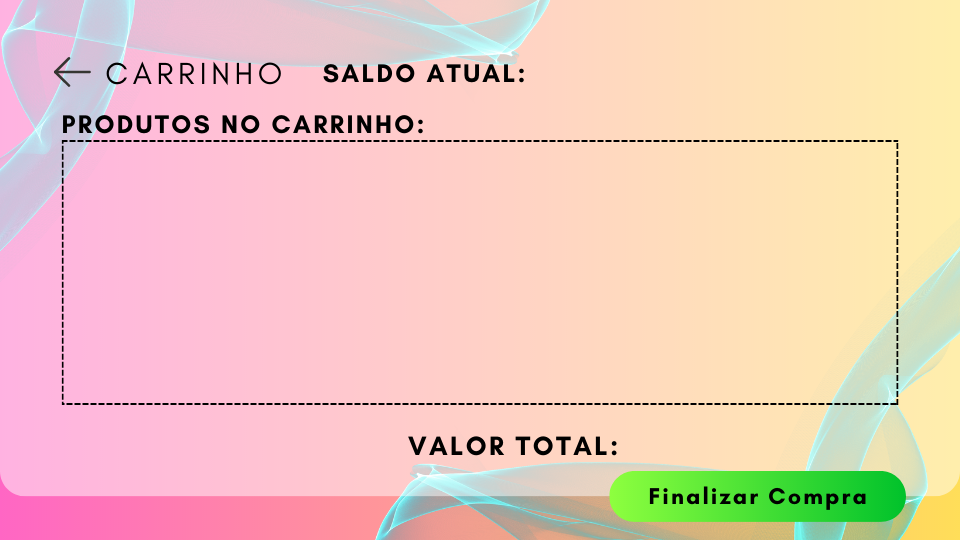
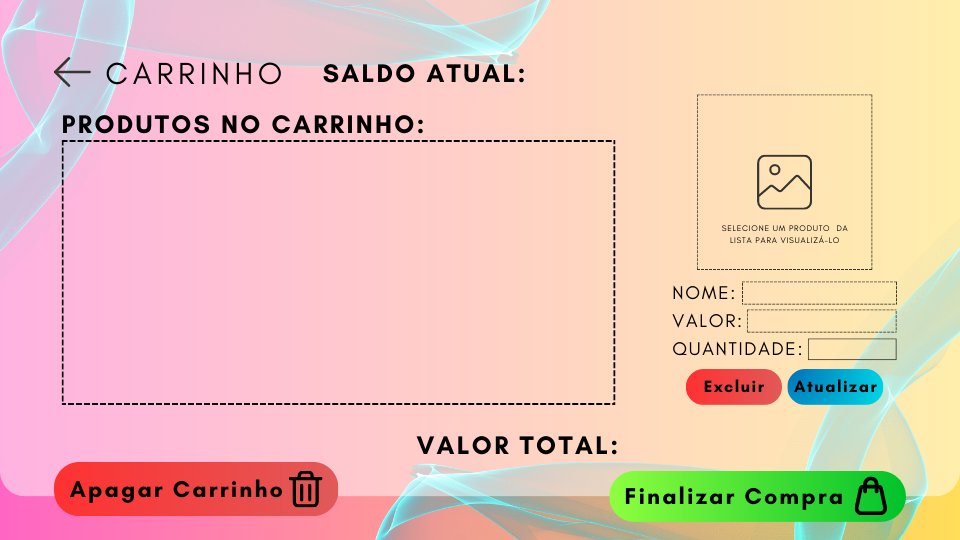
Upgrade Cart Options
Adicionada visualização individual de cada produto no carrinho, exibindo a imagem, nome, valor e quantidade.
Implementada opção de alterar os produtos no carrinho, permitindo a modificação da quantidade de produtos presentes.
Adicionada funcionalidade para remover produtos específicos do carrinho.
Adicionada opção para limpar todos os produtos do carrinho.

diff --git a/TrendStyle/src/views/client/ClientCartScreen.java b/TrendStyle/src/views/client/ClientCartScreen.java
@@ -5,9 +5,18 @@
 package views.client;
 
 import communication.communication;
+import java.awt.Color;
+import java.awt.Image;
 import java.awt.Toolkit;
+import java.awt.event.MouseAdapter;
+import java.awt.event.MouseEvent;
+import java.awt.image.BufferedImage;
+import java.io.IOException;
+import java.net.URL;
 import java.text.DecimalFormat;
 import java.util.ArrayList;
+import javax.imageio.ImageIO;
+import javax.swing.ImageIcon;
 import javax.swing.JOptionPane;
 import javax.swing.JTable;
 import javax.swing.table.DefaultTableModel;
@@ -21,10 +30,11 @@ public class ClientCartScreen extends javax.swing.JFrame {
     int ID = 0;
     double clientBalance = 0;
     double cartValue = 0;
+    int productID = 0;
     
     public boolean updateTable() {
         DefaultTableModel tableModel = new DefaultTableModel(
-                new Object[]{"ID", "Nome", "Valor", "Quantidade", "Total"}, 0
+                new Object[]{"ID", "Nome", "Valor", "Quantidade", "Total", "Imagem"}, 0
         ) {
             // Making cells non-editable
             @Override
@@ -40,6 +50,7 @@ public class ClientCartScreen extends javax.swing.JFrame {
         ArrayList<Double> valores = (ArrayList<Double>) cartItems.get(3);
         ArrayList<Integer> quantidades = (ArrayList<Integer>) cartItems.get(4);
         ArrayList<Double> totais = (ArrayList<Double>) cartItems.get(5);
+        ArrayList<String> imagens = (ArrayList<String>) cartItems.get(6);
 
         // Iterating in reverse order
         for (int i = idProdutos.size() - 1; i >= 0; i--) {
@@ -48,14 +59,58 @@ public class ClientCartScreen extends javax.swing.JFrame {
             double valor = valores.get(i);
             int quantidade = quantidades.get(i);
             double total = totais.get(i);
-            total = Double.valueOf(new DecimalFormat("#.00").format(total));
+            total = Double.parseDouble(new DecimalFormat("#.00").format(total));
+            String imagem = imagens.get(i);
 
-            tableModel.addRow(new Object[]{idProduto, nome, valor, quantidade, total});
+            tableModel.addRow(new Object[]{idProduto, nome, valor, quantidade, total, imagem});
         }
 
         Table = new JTable(tableModel);
+        Table.getColumnModel().getColumn(5).setMinWidth(0);
+        Table.getColumnModel().getColumn(5).setMaxWidth(0);
+        Table.getColumnModel().getColumn(5).setPreferredWidth(0);
         ScrollPane.setViewportView(Table);
+        
+        Table.addMouseListener(new MouseAdapter() {
+            @Override
+            public void mouseClicked(MouseEvent e) {
+                if (e.getClickCount() == 1) {
+                    int linhaSelecionada = Table.getSelectedRow();
+                    productID = (int) Table.getValueAt(linhaSelecionada,0);
+                    String img = Table.getValueAt(linhaSelecionada, 5).toString();
+                    String name = Table.getValueAt(linhaSelecionada, 1).toString();
+                    String value = Table.getValueAt(linhaSelecionada, 2).toString();
+                    String amount = Table.getValueAt(linhaSelecionada, 3).toString();
+                    loadImage(img);
+                    Name.setText(name);
+                    Value.setText(value);
+                    Amount.setText(amount);
+                }
+            }
+        });
+        
         return true;
+    }
+    
+    public void fixDesign() {
+        Amount.setOpaque(false);
+        Amount.setBackground(new Color(0, 0, 0, 0));
+    }
+    
+    private void loadImage(String imageUrl) {
+        try {
+            URL url = new URL(imageUrl);
+            BufferedImage image = ImageIO.read(url);
+
+            int labelWidth = ProductImage.getWidth();
+            int labelHeight = ProductImage.getHeight();
+            Image scaledImage = image.getScaledInstance(labelWidth, labelHeight, Image.SCALE_SMOOTH);
+
+            ImageIcon imageIcon = new ImageIcon(scaledImage);
+            ProductImage.setIcon(imageIcon);
+        } catch (IOException e) {
+            e.printStackTrace();
+        }
     }
     
     public void updatePage() {
@@ -88,6 +143,7 @@ public class ClientCartScreen extends javax.swing.JFrame {
         setIconImage(Toolkit.getDefaultToolkit().getImage(getClass().getResource("../../media/TrendStyleIcon.png")));
         setLocationRelativeTo(null);
         this.ID = _ID;
+        fixDesign();
         updatePage();
     }
 
@@ -106,7 +162,14 @@ public class ClientCartScreen extends javax.swing.JFrame {
         CartValue = new javax.swing.JLabel();
         ScrollPane = new javax.swing.JScrollPane();
         Table = new javax.swing.JTable();
+        ButtonDelete = new javax.swing.JButton();
+        ButtonUpdate = new javax.swing.JButton();
         ButtonConfirm = new javax.swing.JButton();
+        ButtonReset = new javax.swing.JButton();
+        ProductImage = new javax.swing.JLabel();
+        Name = new javax.swing.JLabel();
+        Value = new javax.swing.JLabel();
+        Amount = new javax.swing.JTextField();
         Background = new javax.swing.JLabel();
 
         setDefaultCloseOperation(javax.swing.WindowConstants.EXIT_ON_CLOSE);
@@ -150,7 +213,25 @@ public class ClientCartScreen extends javax.swing.JFrame {
         ));
         ScrollPane.setViewportView(Table);
 
-        Panel.add(ScrollPane, new org.netbeans.lib.awtextra.AbsoluteConstraints(62, 137, 840, 270));
+        Panel.add(ScrollPane, new org.netbeans.lib.awtextra.AbsoluteConstraints(62, 137, 560, 270));
+
+        ButtonDelete.setBorderPainted(false);
+        ButtonDelete.setContentAreaFilled(false);
+        ButtonDelete.addActionListener(new java.awt.event.ActionListener() {
+            public void actionPerformed(java.awt.event.ActionEvent evt) {
+                ButtonDeleteActionPerformed(evt);
+            }
+        });
+        Panel.add(ButtonDelete, new org.netbeans.lib.awtextra.AbsoluteConstraints(685, 370, 98, 35));
+
+        ButtonUpdate.setBorderPainted(false);
+        ButtonUpdate.setContentAreaFilled(false);
+        ButtonUpdate.addActionListener(new java.awt.event.ActionListener() {
+            public void actionPerformed(java.awt.event.ActionEvent evt) {
+                ButtonUpdateActionPerformed(evt);
+            }
+        });
+        Panel.add(ButtonUpdate, new org.netbeans.lib.awtextra.AbsoluteConstraints(787, 370, 95, 35));
 
         ButtonConfirm.setBorderPainted(false);
         ButtonConfirm.setContentAreaFilled(false);
@@ -160,6 +241,26 @@ public class ClientCartScreen extends javax.swing.JFrame {
             }
         });
         Panel.add(ButtonConfirm, new org.netbeans.lib.awtextra.AbsoluteConstraints(610, 470, 300, 50));
+
+        ButtonReset.setBorderPainted(false);
+        ButtonReset.setContentAreaFilled(false);
+        ButtonReset.addActionListener(new java.awt.event.ActionListener() {
+            public void actionPerformed(java.awt.event.ActionEvent evt) {
+                ButtonResetActionPerformed(evt);
+            }
+        });
+        Panel.add(ButtonReset, new org.netbeans.lib.awtextra.AbsoluteConstraints(50, 460, 290, 60));
+        Panel.add(ProductImage, new org.netbeans.lib.awtextra.AbsoluteConstraints(700, 100, 170, 170));
+        Panel.add(Name, new org.netbeans.lib.awtextra.AbsoluteConstraints(744, 283, 150, 21));
+        Panel.add(Value, new org.netbeans.lib.awtextra.AbsoluteConstraints(749, 311, 147, 20));
+
+        Amount.setBorder(null);
+        Amount.addActionListener(new java.awt.event.ActionListener() {
+            public void actionPerformed(java.awt.event.ActionEvent evt) {
+                AmountActionPerformed(evt);
+            }
+        });
+        Panel.add(Amount, new org.netbeans.lib.awtextra.AbsoluteConstraints(809, 339, 87, 20));
 
         Background.setIcon(new javax.swing.ImageIcon(getClass().getResource("/media/clientCart.png"))); // NOI18N
         Panel.add(Background, new org.netbeans.lib.awtextra.AbsoluteConstraints(0, 0, -1, -1));
@@ -219,6 +320,62 @@ public class ClientCartScreen extends javax.swing.JFrame {
         }
     }//GEN-LAST:event_ButtonConfirmActionPerformed
 
+    private void ButtonResetActionPerformed(java.awt.event.ActionEvent evt) {//GEN-FIRST:event_ButtonResetActionPerformed
+        int result = JOptionPane.showConfirmDialog(null,
+                "<html><body><p style='width: 200px;'>Você tem certeza que deseja excluir o carrinho? Todos os produtos serão removidos, zerando completamente.</p></body></html>",
+                "Confirmação de Exclusão do Carrinho",
+                JOptionPane.YES_NO_OPTION);
+
+        if (result == JOptionPane.YES_OPTION) {
+            // Código para remover todos os produtos do carrinho e zerar completamente
+            if (dbAccess.deleteCart(this.ID)) {
+                JOptionPane.showMessageDialog(null,
+                    "<html><body><p style='width: 200px;'>O carrinho foi excluído com sucesso. Todos os produtos foram removidos.</p></body></html>",
+                    "Exclusão Concluída",
+                    JOptionPane.INFORMATION_MESSAGE);
+
+                ClientCartScreen page = new ClientCartScreen(this.ID);
+                page.setVisible(true);
+                dispose();
+            }
+        }
+    }//GEN-LAST:event_ButtonResetActionPerformed
+
+    private void ButtonUpdateActionPerformed(java.awt.event.ActionEvent evt) {//GEN-FIRST:event_ButtonUpdateActionPerformed
+        try {
+            int amount = Integer.parseInt(Amount.getText());
+
+            if (dbAccess.updateCartProduct(this.ID, this.productID, amount)) {
+                ClientCartScreen page = new ClientCartScreen(this.ID);
+                page.setVisible(true);
+                dispose();
+            }
+        } catch (NumberFormatException e) {
+            JOptionPane.showMessageDialog(null, "Quantidade inválida. Por favor, digite um número válido.", "Erro", JOptionPane.ERROR_MESSAGE);
+        }
+    }//GEN-LAST:event_ButtonUpdateActionPerformed
+
+    private void ButtonDeleteActionPerformed(java.awt.event.ActionEvent evt) {//GEN-FIRST:event_ButtonDeleteActionPerformed
+        if (dbAccess.updateCartProduct(this.ID, this.productID, 0)) {
+            JOptionPane.showMessageDialog(null,
+                    "<html><body><p style='width: 200px;'>O produto foi excluído do carrinho com sucesso.</p></body></html>",
+                    "Exclusão Concluída",
+                    JOptionPane.INFORMATION_MESSAGE);
+            ClientCartScreen page = new ClientCartScreen(this.ID);
+            page.setVisible(true);
+            dispose();
+        } else {
+            JOptionPane.showMessageDialog(null,
+                    "<html><body><p style='width: 200px;'>Oops! Algo deu errado durante a exclusão do produto do carrinho. Por favor, tente novamente.</p></body></html>",
+                    "Erro na Exclusão",
+                    JOptionPane.ERROR_MESSAGE);
+        }
+    }//GEN-LAST:event_ButtonDeleteActionPerformed
+
+    private void AmountActionPerformed(java.awt.event.ActionEvent evt) {//GEN-FIRST:event_AmountActionPerformed
+        // TODO add your handling code here:
+    }//GEN-LAST:event_AmountActionPerformed
+
     /**
      * @param args the command line arguments
      */
@@ -255,13 +412,20 @@ public class ClientCartScreen extends javax.swing.JFrame {
     }
 
     // Variables declaration - do not modify//GEN-BEGIN:variables
+    private javax.swing.JTextField Amount;
     private javax.swing.JLabel Background;
     private javax.swing.JLabel Balance;
     private javax.swing.JButton ButtonBack;
     private javax.swing.JButton ButtonConfirm;
+    private javax.swing.JButton ButtonDelete;
+    private javax.swing.JButton ButtonReset;
+    private javax.swing.JButton ButtonUpdate;
     private javax.swing.JLabel CartValue;
+    private javax.swing.JLabel Name;
     private javax.swing.JPanel Panel;
+    private javax.swing.JLabel ProductImage;
     private javax.swing.JScrollPane ScrollPane;
     private javax.swing.JTable Table;
+    private javax.swing.JLabel Value;
     // End of variables declaration//GEN-END:variables
 }

diff --git a/TrendStyle/src/communication/communication.java b/TrendStyle/src/communication/communication.java
@@ -275,6 +275,7 @@ public class communication {
         ArrayList<Double> valores = new ArrayList<>();
         ArrayList<Integer> quantidades = new ArrayList<>();
         ArrayList<Double> totais = new ArrayList<>();
+        ArrayList<String> imagens = new ArrayList<>();
 
         try {
             mysql.conectaBanco();
@@ -293,6 +294,7 @@ public class communication {
                     valores.add(resultSet.getDouble("valor"));
                     quantidades.add(resultSet.getInt("quantidade"));
                     totais.add(resultSet.getDouble("total"));
+                    imagens.add(resultSet.getString("imagem"));
                 } catch (Exception ex) {
                     ex.printStackTrace();
                 }
@@ -310,6 +312,7 @@ public class communication {
         cartData.add(valores);
         cartData.add(quantidades);
         cartData.add(totais);
+        cartData.add(imagens);
 
         return cartData;
     }
@@ -341,6 +344,39 @@ public class communication {
             mysql.fechaBanco();
         }
         return cartSummary;
+    }
+    
+    public boolean updateCartProduct(int id, int id_product, int new_amount) {
+        mysql.conectaBanco();
+        
+        String consulta = "";
+        if (new_amount>0) {
+            consulta = "CALL alterarQuantidadeProdutoNoCarrinho('" + id + "', '" + id_product + "', '" + new_amount + "')";
+        } else {
+            consulta = "CALL removerProdutoDoCarrinho('" + id + "', '" + id_product + "')";
+        }
+
+        mysql.executarSQL(consulta);
+
+        boolean success = (mysql.getResultSet() != null);
+
+        mysql.fechaBanco();
+
+        return success;
+    }
+    
+    public boolean deleteCart(int id) {
+        mysql.conectaBanco();
+
+        String consulta = "CALL apagarCarrinho('" + id + "')";
+
+        mysql.executarSQL(consulta);
+
+        boolean success = (mysql.getResultSet() != null);
+
+        mysql.fechaBanco();
+
+        return success;
     }
     
     private boolean updateCart(int id) {
